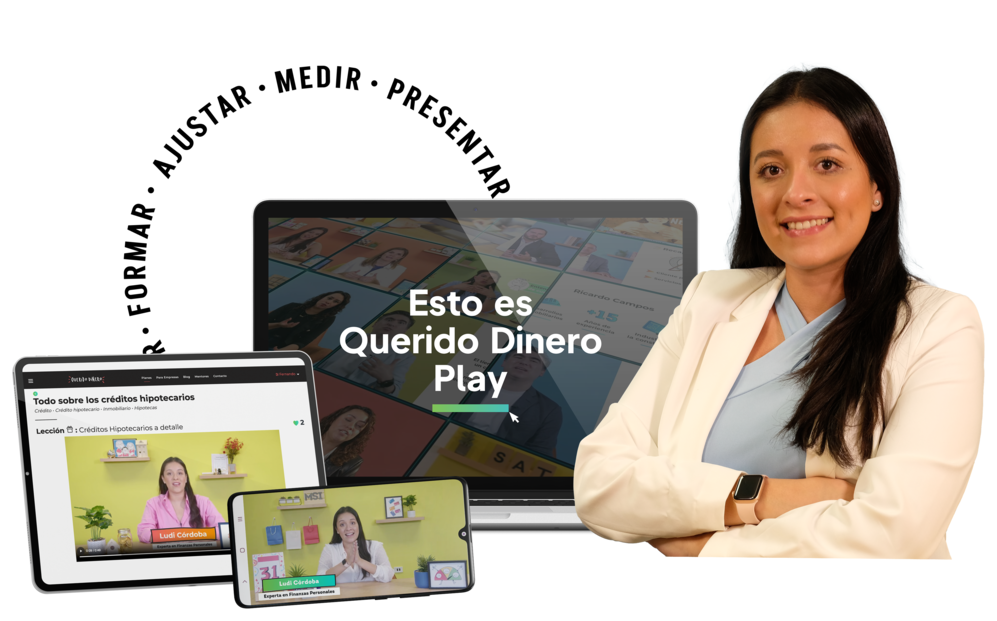
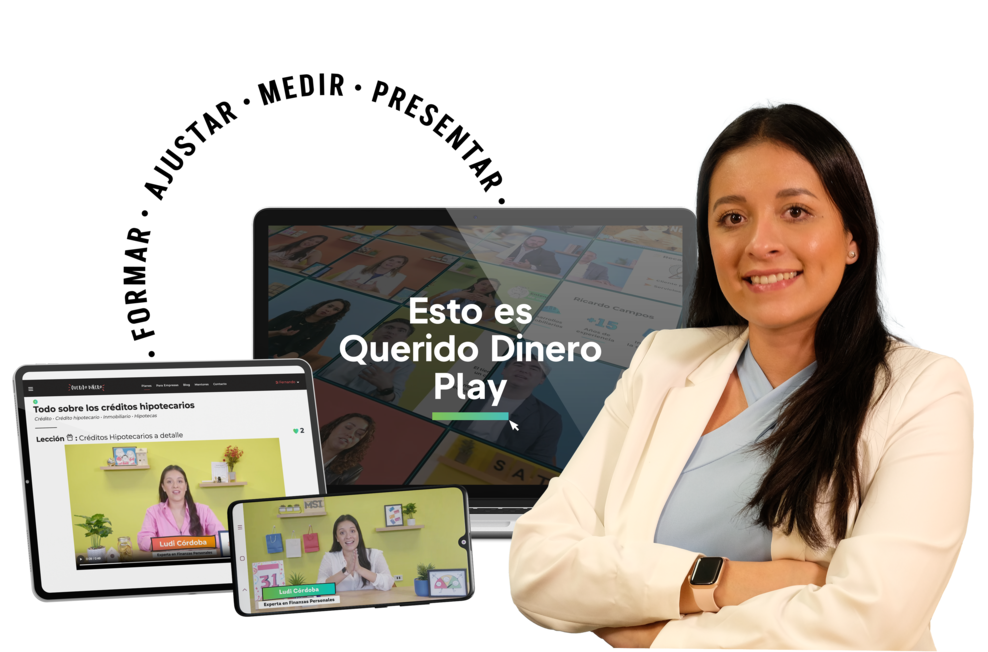
ajuste en metodologia

diff --git a/resources/views/v2/home/consulting/method.blade.php b/resources/views/v2/home/consulting/method.blade.php
@@ -32,10 +32,10 @@
         <!-- Columna de imágenes -->
         <div class="col-lg-6 col-md-12 col-sm-12 col-xs-12 text-center">
             <div class="d-flex justify-content-center align-items-center position-relative">
-                <img src="{{ asset('version-2/images/consulting/imgbanner/metodologia.png') }}" alt="Metodología del Bienestar Financiero" class="img-fluid" style="width: 100%; max-width: 500px; height: auto;">
-                <!--<img src="{{ asset('version-2/images/consulting/imgbanner/fondocirculo.png') }}" alt="Fondo principal" class="fondo-circulo">
-                <img src="{{ asset('version-2/images/consulting/imgbanner/moneda.png') }}" alt="Moneda" class="base-image">
-                <img src="{{ asset('version-2/images/consulting/imgbanner/flechas.png') }}" alt="Flechas" class="overlay-image">-->
+                <div style="position: relative; display: inline-block; width: 100%; max-width: 500px;">
+                    <img src="{{ asset('version-2/images/consulting/imgbanner/metodologia.png') }}" alt="Metodología del Bienestar Financiero" class="img-fluid" style="width: 100%; height: auto; clip-path: polygon(0 0, 100% 0, 100% 90%, 90% 100%, 0 100%);">
+                    <div style="position: absolute; bottom: 0; left: 0; width: 100%; height: 20%; background: linear-gradient(to bottom, rgba(255, 255, 255, 0) 0%, #f2f2f2 100%);"></div>
+                </div>
             </div>
         </div>
     </div>
